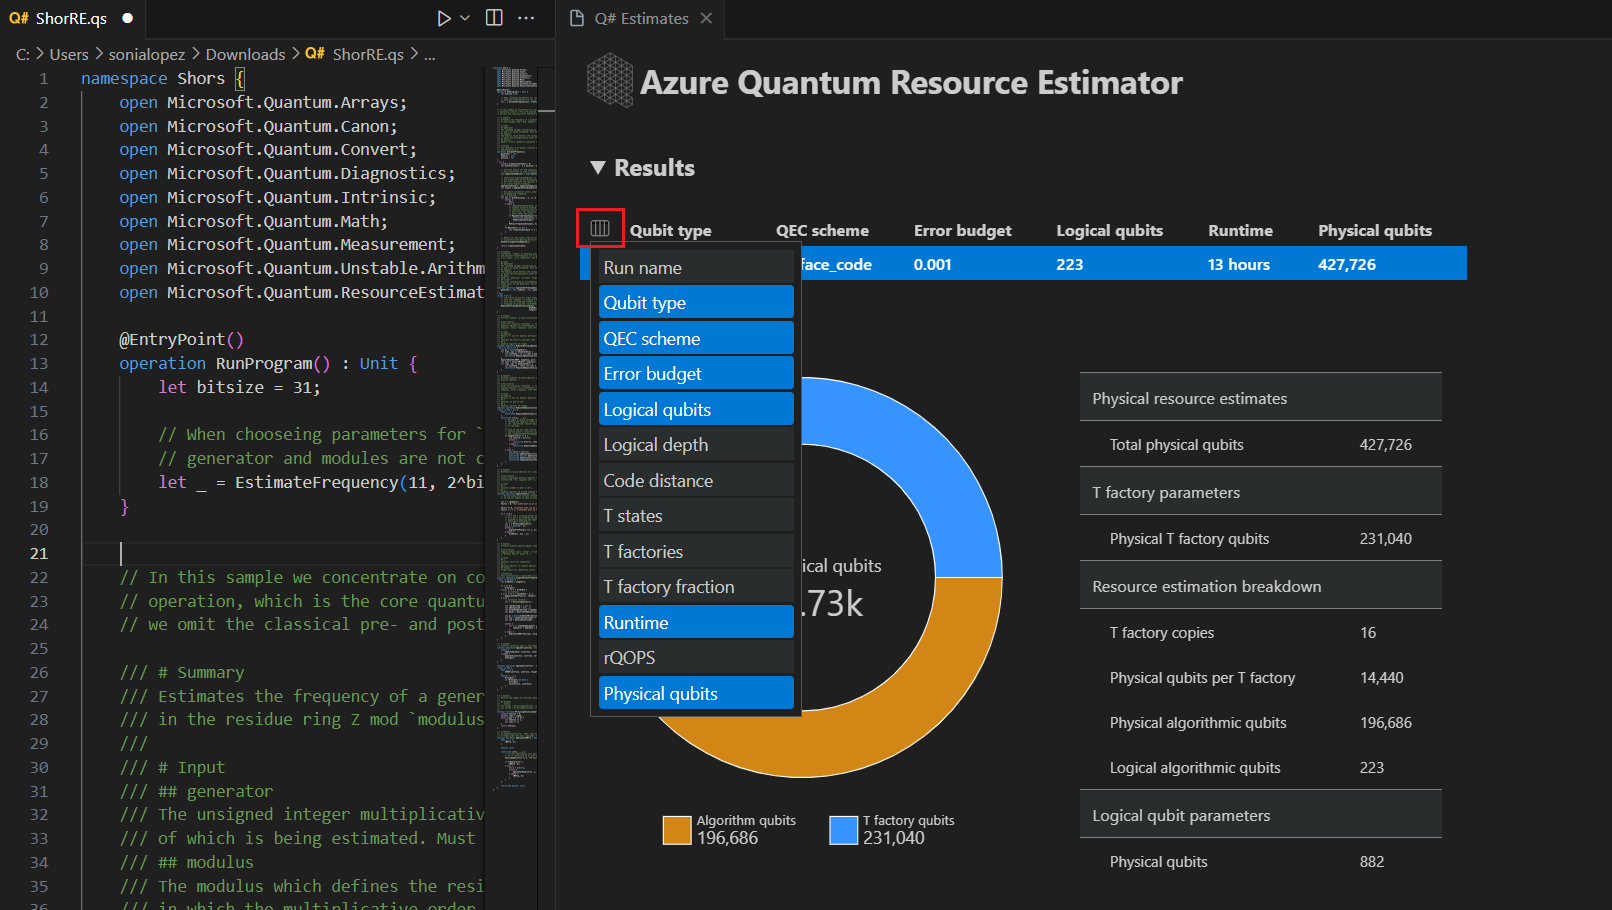
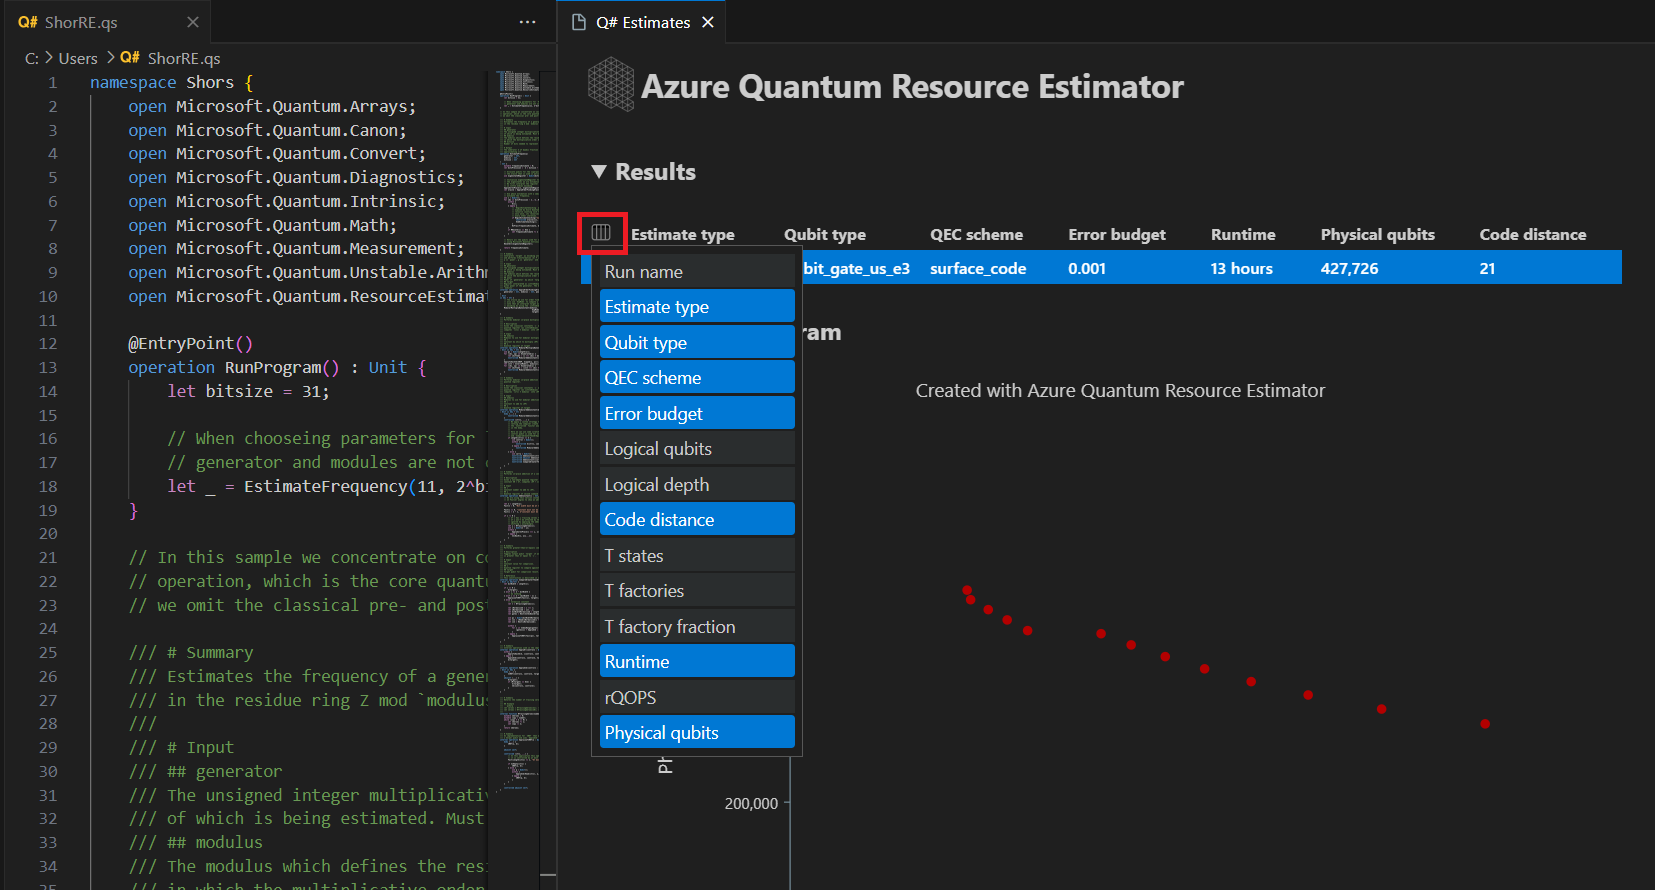
Adding frontier estimation

diff --git a/articles/includes/how-to-submit-resources-estimation-include-qsharp-local.md b/articles/includes/how-to-submit-resources-estimation-include-qsharp-local.md
@@ -405,11 +405,15 @@ In this example, you run the Resource Estimator using the `qubit_gate_us_e3` qub
 1. The result of the resource estimation is displayed in the **Q# Estimate** window.
 1. The **Results** tab displays a summary of the resource estimation. **Click the icon** next to the first row to select the columns you want to display. You can select from run name, qubit type, qec scheme, error budget, logical qubits, logical depth, code distance, T states, T factories, T factory fraction, runtime, rQOPS, and physical qubits.
 
-    :::image type="content" source="../media/vscode-estimates-local-results-tab-shorRE.png" alt-text="Screen shot showing how to display the menu to select the resource estimate outputs of your choice.":::
+    :::image type="content" source="../media/vscode-estimates-local-results-tab-shorRE.png" alt-text="Screenshot showing how to display the menu to select the resource estimate outputs of your choice.":::
+
+1. The **Qubit-time diagram** shows the tradeoffs between the number of physical qubits and the runtime of the algorithm.. You can hover over each point to see the details of the resource estimation at that point. For more information, see [Qubit-time diagram](xref:microsoft.quantum.overview.resources-estimator-output.data#qubit-time-diagram).
+
+    :::image type="content" source="../media/qubit-time-diagram-shorRE.png" alt-text="Screenshot showing the qubit-time diagram of the Resource Estimator.":::
 
 1. The **Space diagram** tab displays the distribution of physical qubits used for the algorithm and the [T factories](xref:microsoft.quantum.concepts.tfactories). In this example, the number of physical qubits required to run the algorithm are 427726, 196686 of which are algorithm qubits and 231040 of which are T factory qubits. 
 
-    :::image type="content" source="../media/vscode-estimates-local-diagram-shorRE.png" alt-text="Screen shot showing the space diagram of the Resource Estimator .":::
+    :::image type="content" source="../media/vscode-estimates-local-diagram-shorRE.png" alt-text="Screenshot showing the space diagram of the Resource Estimator.":::
 
 1. Finally, the **Resource Estimates** tab displays the full list of output data for the Resource Estimator. You can inspect cost details by collapsing the groups, which have more information. For example, collapse the **Logical qubit parameters** group. For more information, see [the full report data of the Resource Estimator](xref:microsoft.quantum.overview.resources-estimator-output.data#report-data).
 
@@ -439,13 +443,13 @@ For more information, see [Target parameters](xref:microsoft.quantum.overview.re
 
 ## Run multiple configurations of parameters
 
-The Azure Quantum Resource Estimator allows you to run with multiple configuration of target parameter and compare the resource estimation results. 
+The Azure Quantum Resource Estimator allows you to run with multiple configuration of target parameters and compare the resource estimation results.
 
 1. Select **View -> Command Palette**, or press **Ctrl+Shift+P**, and type `Q#: Calculate Resource Estimates`.
 1. Select **qubit_gate_us_e3**, **qubit_gate_us_e4**, **qubit_gate_ns_e4 + floquet_code**, and **qubit_gate_ns_e6 + floquet_code**, and click **OK**.
 1. Accept the default error budget value 0.001 and press **Enter**.
 1. Press **Enter** to accept the input file, in this case, **ShorRE.qs**.
+1. In the case of multiple configurations of parameters, the results are displayed in different rows in the **Results** tab. Click on a result from the table to bring up the corresponding space diagram and report data.
+1. The **Qubit-time diagram** shows the results for all the configurations of parameters. The first column of the results table displays the legend for each configuration of parameters. You can hover over each point to see the details of the resource estimation at that point.
 
-In the case of multiple configurations of parameters, the results are displayed in different rows in the **Results** tab. Click on a result from the table to bring up the corresponding space diagram and report data.
-
-
+    :::image type="content" source="../media/multiple-configurations-frontier-shorRE.png" alt-text="Screenshot showing the qubit-time diagram and the table of results when running multiple configurations of parameter in the Resource Estimator.":::

diff --git a/articles/overview-resources-estimator.md b/articles/overview-resources-estimator.md
@@ -40,6 +40,7 @@ Therefore, the Resource Estimator takes a set of inputs, with pre-defined values
 - An [error budget](#error-budget), which is the overall allowed error, that is, the number of times the program is allowed to unsuccess.
 - [Constraints](#constraints) on the component-level, which are the number of logical cycles and the number of T factory copies.
 - [Distillation units](#distillation-units) to specify T factories distillation algorithms.
+- [Frontier estimation](#frontier-estimation) to run multiple estimates of number of qubits and runtime for the same algorithm.
 
 > [!NOTE]
 > In addition to the target parameters, if the quantum program contains arguments the Resource Estimator can take operation arguments as input. For more information, see [Get the most out of the Azure Quantum Resource Estimator](xref:microsoft.quantum.work-with-resource-estimator#how-to-run-multiple-configurations-as-a-single-job).
@@ -504,7 +505,7 @@ qsharp.estimate("RunProgram()", params=
                         "outputErrorRateFormula": <string>,
                         "physicalQubitSpecification": <protocol specific parameters>, 
                         "logicalQubitSpecification": <protocol specific parameters>, 
-                        "logicalQubitSpecificationFirstRoundOverride": <protocol specific parameters>, // Only if "logicalQubitSpecification"
+                        "logicalQubitSpecificationFirstRoundOverride": <protocol specific parameters>, # Only if "logicalQubitSpecification"
                         }
                 })
 ```
@@ -553,6 +554,28 @@ The parameter `logical_qubit_specification_first_round_override` can be provided
     "durationInQubitCycleTime": <double>
 }
 ```
+
+## Frontier estimation
+
+When estimating the resources of an algorithm, it's important to consider the tradeoff between the number of physical qubits and the runtime of the algorithm. You could consider allocation of as many physical qubits as possible to reduce the runtime of the algorithm. However, the number of physical qubits is limited by the number of physical qubits available in the quantum hardware.
+
+The frontier estimation provides multiple estimates for the same algorithm, each with a tradeoffs between the number of qubits and the runtime.
+
+If you run the Resource Estimator in Python, you need to specify the `"estimateType"` parameter as `"frontier"`.
+
+```python
+qsharp.estimate("RunProgram()", params=
+                    {"qubitParams": { "name": "qubit_maj_ns_e4" },
+                    "qecScheme": { "name": "surface_code" },
+                    "estimateType": "frontier", # frontier estimation
+                    }
+                )
+```
+
+> [!NOTE]
+> If you run the Resource Estimator in Visual Studio Code using the **Q#: Calculate Resource Estimates** option, the frontier estimation is enabled by default.
+
+For more information, see [Qubit-time diagram](xref:microsoft.quantum.overview.resources-estimator-output.data#qubit-time-diagram) for the Resource Estimator.
 
 ## Next steps
 

diff --git a/articles/overview-resource-estimator-output-data.md b/articles/overview-resource-estimator-output-data.md
@@ -247,7 +247,6 @@ The `logical_counts` dictionary contains the following entries:
 |`ccix_count`|number| Pre-layout number of CCiX gates.|
 |`measurement_count`|number| Pre-layout number of single-qubit measurements.|
 
-
 ## Space diagram
 
 The overall physical resource estimation consists of total number of physical qubits used for both the algorithm and T factory copies. You can inspect the distribution between these two using the space diagram.
@@ -264,6 +263,33 @@ SpaceChart(result)
 ```
 
 :::image type="content" source="media/resource-estimator-space-diagram.png" alt-text="Pie diagram showing the distribution of total physical qubits between algorithm qubits and T factory qubits. There's a table with the breakdown of number of T factory copies and number of physical qubits per T factory.":::
+
+When using the , you can pass . For example, the following code shows how to plot the space diagram for the first run and the third shortest runtime.
+
+```python
+SpaceChart(result[0], 2) # First (estimate index=0) run and third (point index=2) shortest runtime
+```
+
+## Qubit-time diagram
+
+In quantum computing, there's a tradeoff between the number of physical qubits and the runtime of the algorithm. You could consider allocation of as many physical qubits as possible to reduce the runtime of the algorithm. However, the number of physical qubits is limited by the number of physical qubits available in the quantum hardware.
+
+When estimating the resources of an algorithm, you can use the qubit-time diagram to visualize the tradeoffs between the number of physical qubits and the runtime of the algorithm.
+
+The qubit-time diagram allows you to find the optimal combination of $\text{\{number of qubit, runtime\}}$ pairs that satisfy the constraints of the quantum hardware. The diagram shows the number of physical qubits and the runtime of the algorithm for each $\text{\{number of qubit, runtime\}}$ pair.
+
+```python
+import qsharp
+
+from qsharp_widgets import EstimatesOverview
+
+EstimatesOverview(result, colors=["#1f77b4", "#ff7f0e"], runNames=["e4 Surface Code", "e6 Floquet Code"])
+```
+
+:::image type="content" source="media/qubit-time-diagram-shorRE.png" alt-text="Screenshot showing the qubit-time diagram of the Resource Estimator.":::
+
+> [!TIP]
+> To see the estimation details, you can hover over each point in the diagram.
 
 ## Next steps
 

diff --git a/articles/includes/how-to-submit-resources-estimation-include-jupyter-local.md b/articles/includes/how-to-submit-resources-estimation-include-jupyter-local.md
@@ -577,3 +577,9 @@ The Azure Quantum Resource Estimator allows you to run multiple configuration of
     |Gate-based ns, 10⁻⁴|	223	3.64M	|4.70M|	9|	14|	43.17 %|	63.57k|	61.94M|	13 secs|
     |Majorana ns, 10⁻⁴|	223	3.64M|	4.70M|	9|	19|	82.75 %	|501.48k|	82.59M	|10 secs|
     |Majorana ns, 10⁻⁶|	223	3.64M|	4.70M|	5|	13|	31.47 %|	42.96k|	148.67M	|5 secs|
+
+## Optimal frontier estimation
+
+
+
+
